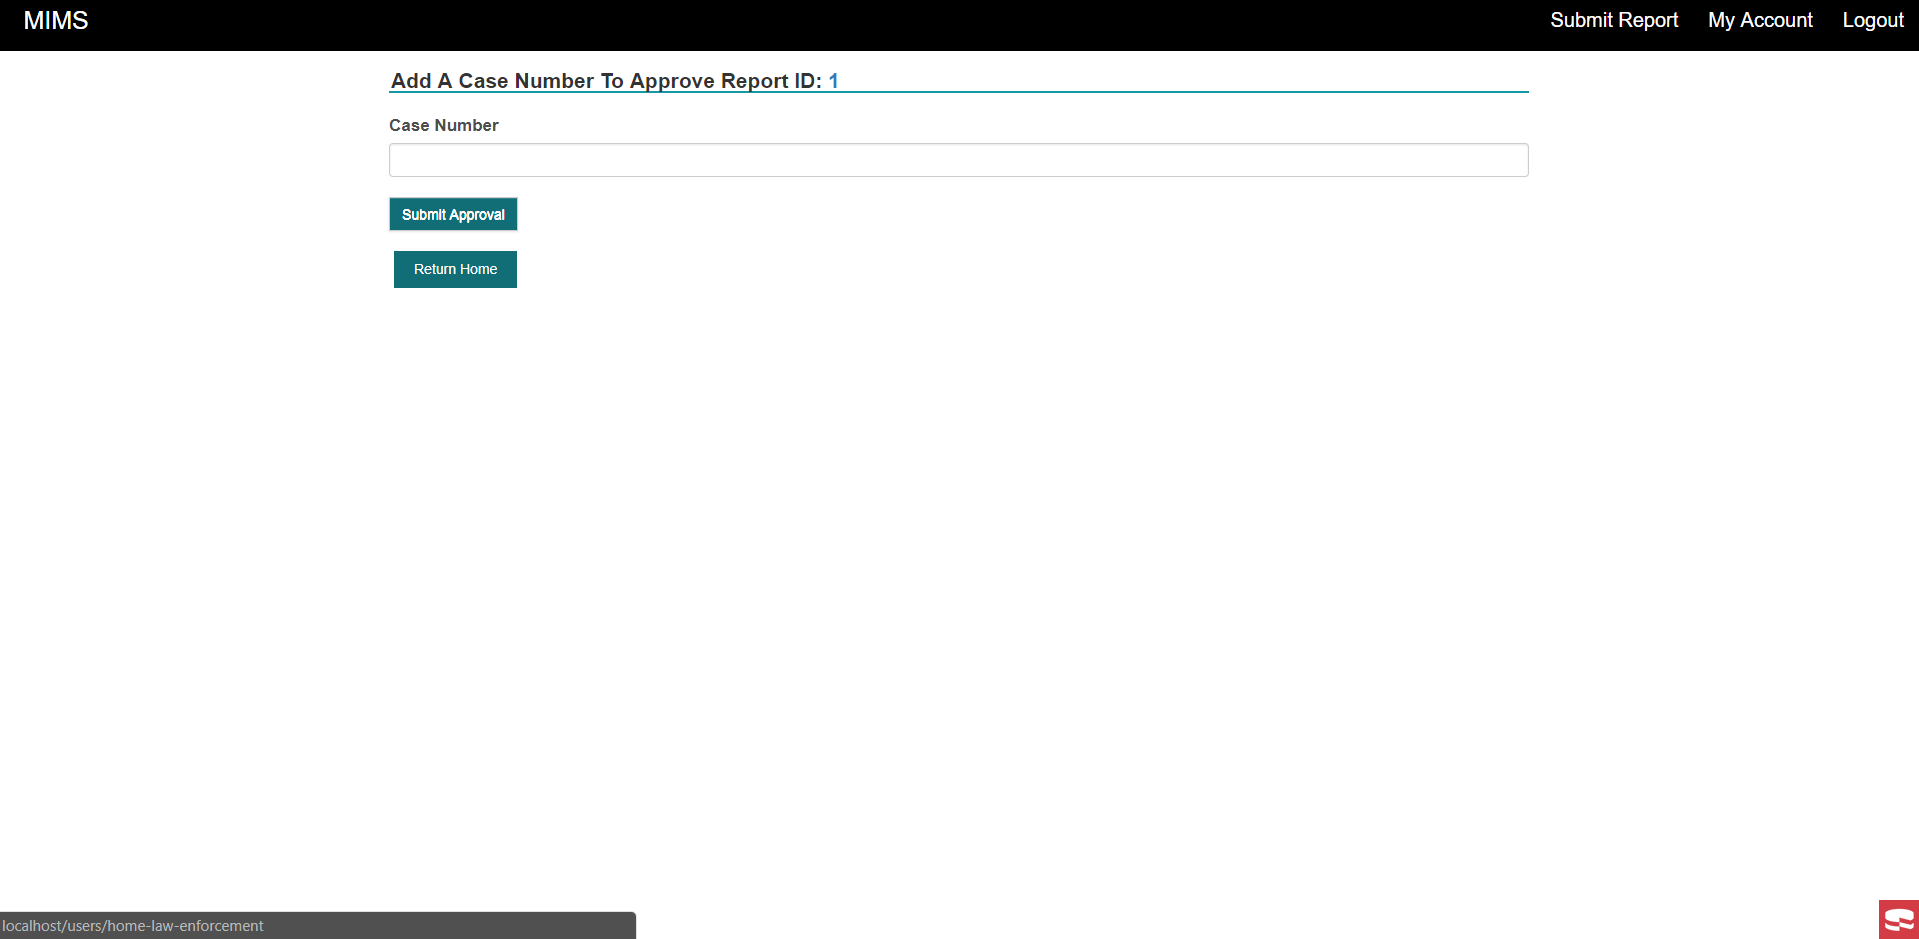
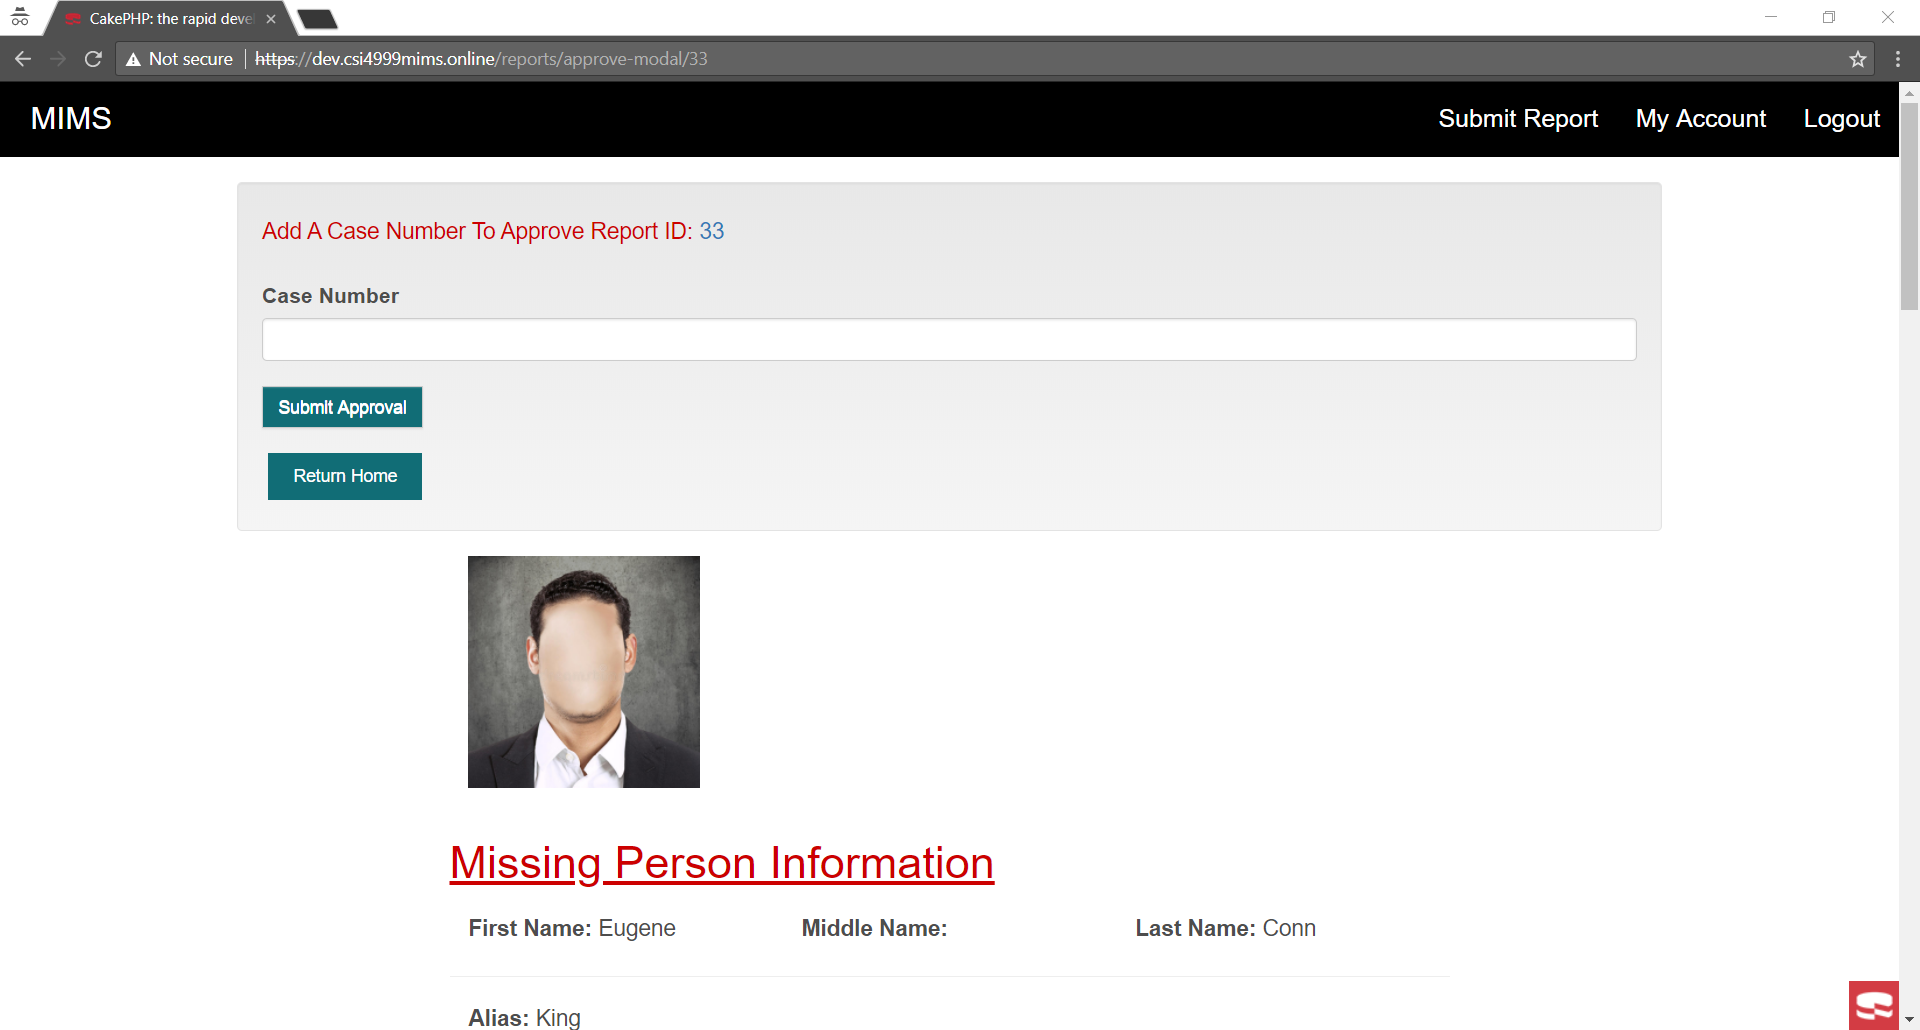
updated approve and found images to match UI changes

diff --git a/Master Documentation/10.02.UserInterfaceImplementation.md b/Master Documentation/10.02.UserInterfaceImplementation.md
@@ -1,0 +1,31 @@
+# User Interface Implementation  
+
+## Home  
+![](media/home.PNG)  
+
+## Register  
+![](media/register.PNG)
+## Login  
+![](media/login.PNG)
+## Account
+![](media/account.PNG)
+## Law Enforcement Dashboard  
+![](media/le-dash1.PNG)
+![](media/le-dash2.PNG)
+![](media/le-dash3.PNG)
+![](media/le-dash4.PNG)
+## LE Detailed Report  
+![](media/le-report.PNG)
+## Public Dashboard  
+![](media/public-dash1.PNG)
+![](media/public-dash2.PNG)
+## Public Detailed Report  
+![](media/report-public.PNG)
+## Submit Report
+![](media/submit.PNG)
+## Comments  
+![](media/comments.PNG)
+## Approve  
+![](media/approve.PNG)
+## Mark as Found
+![](media/found.PNG)
